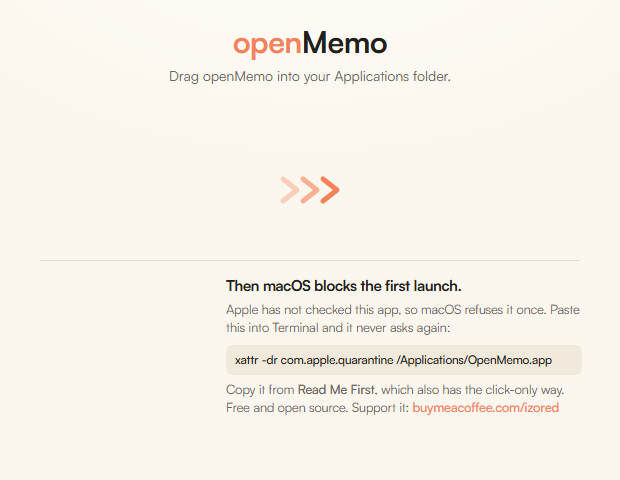
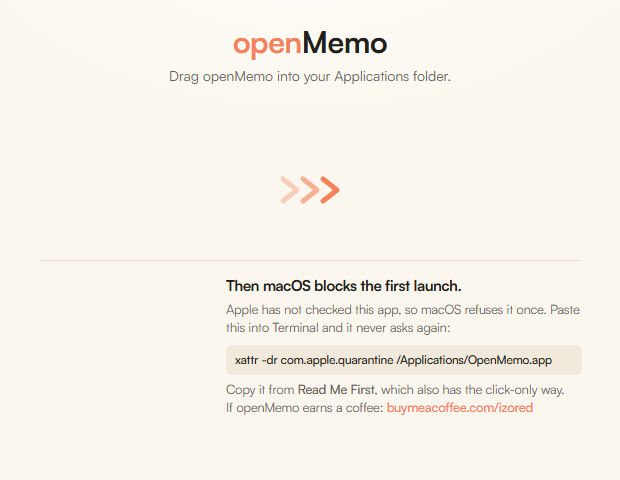
style(macos): stop ordering people to support the app
"Support it:" is an instruction sitting where an invitation belongs, on a
window whose only job is getting the app installed. The line is now a
condition, not a command: if openMemo earns a coffee, here is where. Ink stops
at row 414, still clear of Finder's path bar.

Changed region(s): [[0.3677, 0.8438, 0.9194, 0.875]]

diff --git a/macOS/buildResources/dmg/background.html b/macOS/buildResources/dmg/background.html
@@ -83,5 +83,5 @@
   <h2>Then macOS blocks the first launch.</h2>
   <p>Apple has not checked this app, so macOS refuses it once. Paste this into Terminal and it never asks again:</p>
   <div class="cmd">xattr -dr com.apple.quarantine /Applications/OpenMemo.app</div>
-  <p class="cmd-label">Copy it from <b>Read Me First</b>, which also has the click-only way.<br />Free and open source. Support it: <i>buymeacoffee.com/izored</i></p>
+  <p class="cmd-label">Copy it from <b>Read Me First</b>, which also has the click-only way.<br />If openMemo earns a coffee: <i>buymeacoffee.com/izored</i></p>
 </div>
